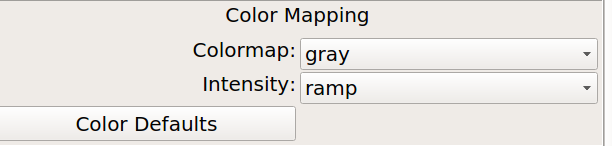
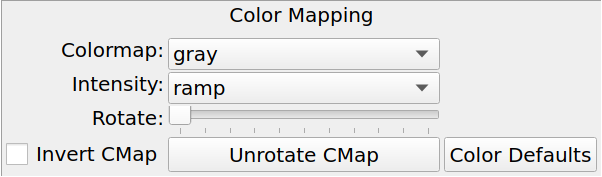
Fix up rgbmap stage, updates to Preferences docstring

Changed region(s): [[0.0, 0.0, 1.0, 1.0], [0.2691, 0.0274, 0.7176, 0.2192]]

diff --git a/ginga/util/stages/rgbmap.py b/ginga/util/stages/rgbmap.py
@@ -26,6 +26,11 @@ class RGBMap(Stage):
         self._calg_name = 'linear'
         self._cmap_name = 'gray'
         self._imap_name = 'ramp'
+        self._invert_cmap = False
+        self._rotate_cmap_pct = 0.0
+        self._contrast = 0.5
+        self._brightness = 0.5
+
         self.viewer = None
         self.fv = None
 
@@ -37,9 +42,13 @@ class RGBMap(Stage):
         # create and initialize RGB mapper
         # TODO: currently hash size cannot be changed
         self.rgbmap = RGBMapper(self.logger)
-        self.rgbmap.set_color_algorithm(self._calg_name)
-        self.rgbmap.set_color_map(self._cmap_name)
-        self.rgbmap.set_intensity_map(self._imap_name)
+        self.rgbmap.get_settings().set(color_algorithm=self._calg_name,
+                                       color_map=self._cmap_name,
+                                       intensity_map=self._imap_name,
+                                       color_map_invert=self._invert_cmap,
+                                       color_map_rot_pct=self._rotate_cmap_pct,
+                                       contrast=self._contrast,
+                                       brightness=self._brightness)
         self.rgbmap.add_callback('changed', self.rgbmap_changed_cb)
 
         self.settings_keys = list(self.rgbmap.settings_keys)
@@ -81,16 +90,31 @@ class RGBMap(Stage):
 
         captions = (('Colormap:', 'label', 'Colormap', 'combobox'),
                     ('Intensity:', 'label', 'Intensity', 'combobox'),
+                    ('Rotate:', 'label', 'rotate_cmap', 'hscale'),
+                    ('Invert CMap', 'checkbutton', 'Unrotate CMap', 'button'),
                     ('Color Defaults', 'button', 'Copy from viewer', 'button'))
         w, b = Widgets.build_info(captions, orientation='vertical')
         self.w.update(b)
         self.w.cmap_choice = b.colormap
         self.w.imap_choice = b.intensity
-        b.color_defaults.add_callback('activated',
-                                      lambda w: self.set_default_cmaps())
+
+        b.invert_cmap.set_tooltip("Invert color map")
+        b.invert_cmap.set_state(False)
+        b.invert_cmap.add_callback('activated', self.invert_cmap_cb)
+
+        b.rotate_cmap.set_tracking(False)
+        b.rotate_cmap.set_limits(0, 100, incr_value=1)
+        b.rotate_cmap.set_value(0)
+        b.rotate_cmap.add_callback('value-changed', self.rotate_cmap_cb)
+        b.rotate_cmap.set_tooltip("Rotate the colormap")
+
         b.colormap.set_tooltip("Choose a color map for this image")
         b.intensity.set_tooltip("Choose an intensity map for this image")
-        b.color_defaults.set_tooltip("Restore default color and intensity maps")
+        b.unrotate_cmap.set_tooltip("Undo cmap rotation")
+        b.unrotate_cmap.add_callback('activated', self.unrotate_cmap_cb)
+        b.color_defaults.set_tooltip("Restore all color map settings to defaults")
+        b.color_defaults.add_callback('activated',
+                                      lambda w: self.set_default_cmaps())
         fr.set_widget(w)
 
         combobox = b.colormap
@@ -122,41 +146,37 @@ class RGBMap(Stage):
 
         top.add_widget(fr, stretch=0)
 
-        # COLOR MAP MANIPULATIONS
-        fr = Widgets.Frame("Color Map Manipulations")
+        # CONTRAST MANIPULATIONS
+        fr = Widgets.Frame("Contrast and Brightness (Bias)")
 
-        captions = (('Contrast:', 'label', 'stretch', 'hscale'),
-                    ('Brightness:', 'label', 'shift', 'hscale'),
-                    ('Rotate:', 'label', 'rotate', 'hscale'),
-                    ('Invert', 'button', 'Restore', 'button'))
+        captions = (('Contrast:', 'label', 'contrast', 'hscale'),
+                    ('Brightness:', 'label', 'brightness', 'hscale'),
+                    ('_cb1', 'spacer', '_hbox_cb', 'hbox'))
         w, b = Widgets.build_info(captions, orientation='vertical')
         self.w.update(b)
 
-        b.stretch.set_tracking(True)
-        b.stretch.set_limits(0, 100, incr_value=1)
-        b.stretch.set_value(100)
-        b.stretch.add_callback('value-changed', self.stretch_cmap_cb)
-        b.stretch.set_tooltip("Stretch color map")
+        b.contrast.set_tracking(False)
+        b.contrast.set_limits(0, 100, incr_value=1)
+        b.contrast.set_value(50)
+        b.contrast.add_callback('value-changed', self.contrast_set_cb)
+        b.contrast.set_tooltip("Set contrast for the viewer")
 
-        b.shift.set_tracking(True)
-        b.shift.set_limits(-100, 100, incr_value=1)
-        b.shift.set_value(0)
-        b.shift.add_callback('value-changed', self.shift_cmap_cb)
-        b.shift.set_tooltip("Shift color map")
+        b.brightness.set_tracking(False)
+        b.brightness.set_limits(0, 100, incr_value=1)
+        b.brightness.set_value(50)
+        b.brightness.add_callback('value-changed', self.brightness_set_cb)
+        b.brightness.set_tooltip("Set brightness/bias for the viewer")
 
-        b.rotate.set_tracking(True)
-        b.rotate.set_limits(-100, 100, incr_value=1)
-        b.rotate.set_value(0)
-        b.rotate.add_callback('value-changed', self.rotate_cmap_cb)
-        b.rotate.set_tooltip("Rotate when shifting")
-
-        b.invert.set_tooltip("Invert color map")
-        b.invert.add_callback('activated', self.invert_cmap_cb)
-        b.restore.set_tooltip("Restore color map")
-        b.restore.add_callback('activated', self.restore_cmap_cb)
+        btn = Widgets.Button('Default Contrast')
+        btn.set_tooltip("Reset contrast to default")
+        btn.add_callback('activated', self.restore_contrast_cb)
+        b._hbox_cb.add_widget(btn, stretch=0)
+        btn = Widgets.Button('Default Brightness')
+        btn.set_tooltip("Reset brightness to default")
+        btn.add_callback('activated', self.restore_brightness_cb)
+        b._hbox_cb.add_widget(btn, stretch=0)
 
         fr.set_widget(w)
-
         top.add_widget(fr, stretch=0)
 
         # add colorbar
@@ -215,9 +235,53 @@ class RGBMap(Stage):
             self.w.intensity.set_index(idx)
             self.rgbmap.set_intensity_map(val)
 
+    @property
+    def invert_cmap(self):
+        return self._invert_cmap
+
+    @invert_cmap.setter
+    def invert_cmap(self, tf):
+        self._invert_cmap = tf
+        if self.gui_up:
+            self.w.invert_cmap.set_state(tf)
+            self.rgbmap.get_settings().set(color_map_invert=tf)
+
+    @property
+    def rotate_cmap(self):
+        return self._rotate_cmap_pct
+
+    @rotate_cmap.setter
+    def rotate_cmap(self, pct):
+        self._rotate_cmap_pct = pct
+        if self.gui_up:
+            self.w.rotate_cmap.set_value(int(pct * 100.0))
+            self.rgbmap.get_settings().set(color_map_rot_pct=pct)
+
+    @property
+    def contrast(self):
+        return self._contrast
+
+    @contrast.setter
+    def contrast(self, pct):
+        self._contrast = pct
+        if self.gui_up:
+            self.w.contrast.set_value(int(pct * 100))
+            self.rgbmap.get_settings().set(contrast=pct)
+
+    @property
+    def brightness(self):
+        return self._brightness
+
+    @brightness.setter
+    def brightness(self, pct):
+        self._brightness = pct
+        if self.gui_up:
+            self.w.brightness.set_value(int(pct * 100))
+            self.rgbmap.get_settings().set(brightness=pct)
+
     def set_cmap_cb(self, w, index):
         """This callback is invoked when the user selects a new color
-        map from the preferences pane."""
+        map from the UI."""
         old_cmap_name = self._cmap_name
         name = cmap.get_names()[index]
         self.cmap_name = name
@@ -243,7 +307,7 @@ class RGBMap(Stage):
 
     def set_calg_cb(self, w, index):
         """This callback is invoked when the user selects a new color
-        hashing algorithm from the preferences pane."""
+        hashing algorithm from the UI."""
         old_calg_name = self._calg_name
         name = self.calg_names[index]
         self.calg_name = name
@@ -253,6 +317,30 @@ class RGBMap(Stage):
                                        descr="rgbmap / change calg"))
 
         self.pipeline.run_from(self)
+
+    def rotate_cmap_cb(self, w, val):
+        old_val = self._rotate_cmap_pct
+        pct = val / 100.0
+        self.rotate_cmap = pct
+        self.pipeline.push(StageAction(self,
+                                       dict(rotate_cmap=old_val),
+                                       dict(rotate_cmap=self._rotate_cmap_pct),
+                                       descr=f"rgbmap / rotate cmap: {pct}"))
+
+        self.pipeline.run_from(self)
+
+    def invert_cmap_cb(self, w, tf):
+        old_val = self._invert_cmap
+        self.invert_cmap = tf
+        self.pipeline.push(StageAction(self,
+                                       dict(invert_cmap=old_val),
+                                       dict(invert_cmap=self._invert_cmap),
+                                       descr=f"rgbmap / invert cmap {tf}"))
+
+        self.pipeline.run_from(self)
+
+    def unrotate_cmap_cb(self, w):
+        self.rotate_cmap_cb(w, 0)
 
     def set_default_cmaps(self):
         old = dict(cmap_name=self._cmap_name, imap_name=self._imap_name)
@@ -265,6 +353,34 @@ class RGBMap(Stage):
         self.imap_name = imap_name
 
         self.pipeline.run_from(self)
+
+    def contrast_set_cb(self, w, val):
+        old_val = self._contrast
+        pct = val / 100.0
+        self.contrast = pct
+        self.pipeline.push(StageAction(self,
+                                       dict(contrast=old_val),
+                                       dict(contrast=self._contrast),
+                                       descr=f"rgbmap / contrast: {pct}"))
+
+        self.pipeline.run_from(self)
+
+    def brightness_set_cb(self, w, val):
+        old_val = self._brightness
+        pct = val / 100.0
+        self.brightness = pct
+        self.pipeline.push(StageAction(self,
+                                       dict(brightness=old_val),
+                                       dict(brightness=self._brightness),
+                                       descr=f"rgbmap / brightness: {pct}"))
+
+        self.pipeline.run_from(self)
+
+    def restore_contrast_cb(self, w):
+        self.contrast_set_cb(w, 50)
+
+    def restore_brightness_cb(self, w):
+        self.brightness_set_cb(w, 50)
 
     def set_default_distmaps(self):
         old = dict(calg_name=self._calg_name)
@@ -279,46 +395,6 @@ class RGBMap(Stage):
     def copy_from_viewer_cb(self, w):
         rgbmap = self.viewer.get_rgbmap()
         rgbmap.copy_attributes(self.rgbmap, keylist=self.settings_keys)
-
-        self.pipeline.run_from(self)
-
-    def stretch_cmap_cb(self, w, val):
-        self.rgbmap.reset_sarr(callback=False)
-        stretch_val = 100.0 - val
-        scale_pct = stretch_val / 100.0
-        shift_val = self.w.shift.get_value()
-        shift_pct = - shift_val / 100.0
-
-        self.rgbmap.scale_and_shift(scale_pct, shift_pct)
-
-        #self.fv.gui_do(self.pipeline.run_from, self)
-
-    def shift_cmap_cb(self, w, val):
-        self.rgbmap.reset_sarr(callback=False)
-        shift_pct = - val / 100.0
-        stretch_val = 100.0 - self.w.stretch.get_value()
-        scale_pct = stretch_val / 100.0
-
-        self.rgbmap.scale_and_shift(scale_pct, shift_pct)
-
-        #self.fv.gui_do(self.pipeline.run_from, self)
-
-    def rotate_cmap_cb(self, w, val):
-        self.rgbmap.calc_cmap()
-        pct = val / 100.0
-        num = int(255 * pct)
-        self.rgbmap.rotate_cmap(num)
-        #self.rgbmap.shift(shift_pct, rotate=rotate)
-
-        #self.pipeline.run_from(self)
-
-    def invert_cmap_cb(self, w):
-        self.rgbmap.invert_cmap()
-
-        self.pipeline.run_from(self)
-
-    def restore_cmap_cb(self, w):
-        self.rgbmap.restore_cmap()
 
         self.pipeline.run_from(self)
 

diff --git a/ginga/rv/plugins/Preferences.py b/ginga/rv/plugins/Preferences.py
@@ -60,15 +60,44 @@ The "Colormap" control selects which color map should be loaded and
 used.  Click the control to show the list, or simply scroll the mouse
 wheel while hovering the cursor over the control.
 
+.. note:: Ginga comes with a good selection of color maps, but should you
+          want more, you can add custom ones or, if ``matplotlib`` is
+          installed, you can load all the ones that it has.
+          See "Customizing Ginga" for details.
+
 The "Intensity" control selects which intensity map should be used
 with the color map.  The intensity map is applied just before the color
 map, and can be used to change the standard linear scale of values into
 an inverted scale, logarithmic, etc.
 
-Ginga comes with a good selection of color maps, but should you want
-more, you can add custom ones or, if ``matplotlib`` is installed, you
-can load all the ones that it has.
-See "Customizing Ginga" for details.
+The "Invert CMap" checkbox can be used to invert the selected color map
+(note that a number of colormaps are also selectable from the "Colormap"
+controlin inverted form).
+
+The "Rotate" control can be used to rotate the colormap, while the
+"Unrotate CMap" button will restore the rotation to its default, unrotated
+state.
+
+The "Color Defaults" button will reset all the color mapping controls to
+the default values: "gray" color map, "ramp" (linear) intensity, and no
+inversion or rotation of the color map.
+
+**Contrast and Brightness (Bias) Preferences**
+
+.. figure:: figures/contrast-prefs.png
+   :width: 400px
+   :align: center
+   :alt: Contrast and Brightness (Bias) preferences
+
+   "Contrast and Brightness (Bias)" preferences.
+
+The "Contrast" and "Brightness" controls will set the contrast and brightness
+(aka "bias") of the viewer.  They offer an alternative to 1) using the contrast
+mode within the viewer window, or 2) manipulating the color bar by dragging (to
+set brightness/bias) or scrolling (to set contrast).
+
+The "Default Contrast" and "Default Brightness" controls set their respective
+settings back to the default value.
 
 **Auto Cuts Preferences**
 
@@ -679,7 +708,7 @@ class Preferences(GingaPlugin.LocalPlugin):
         combobox.add_callback('activated', self.set_imap_cb)
 
         # CONTRAST MANIPULATIONS
-        fr = Widgets.Frame("Contrast and Brightness")
+        fr = Widgets.Frame("Contrast and Brightness (Bias)")
 
         captions = (('Contrast:', 'label', 'contrast', 'hscale'),
                     ('Brightness:', 'label', 'brightness', 'hscale'),
@@ -697,7 +726,7 @@ class Preferences(GingaPlugin.LocalPlugin):
         b.brightness.set_limits(0, 100, incr_value=1)
         b.brightness.set_value(50)
         b.brightness.add_callback('value-changed', self.brightness_cb)
-        b.brightness.set_tooltip("Set brightness for the viewer")
+        b.brightness.set_tooltip("Set brightness/bias for the viewer")
 
         btn = Widgets.Button('Default Contrast')
         btn.set_tooltip("Reset contrast to default")
@@ -1338,10 +1367,6 @@ class Preferences(GingaPlugin.LocalPlugin):
 
     def invert_cmap_cb(self, w, tf):
         self.t_.set(color_map_invert=tf)
-
-    def restore_cmap_cb(self, w):
-        rgbmap = self.fitsimage.get_rgbmap()
-        rgbmap.restore_cmap()
 
     def restore_contrast_cb(self, w):
         self.t_.set(contrast=0.5)

diff --git a/doc/WhatsNew.rst b/doc/WhatsNew.rst
@@ -24,6 +24,7 @@ Ver 4.1.0 (2022-06-30)
   file in .../ginga/examples/configs)
 - Fixed an issue with readout of values under the cursor when an image
   is plotted at a non-zero origin
+- Add Contrast and Brightness adjustments in "Preferences" plugin
 
 Ver 4.0.1 (2022-12-27)
 ======================
